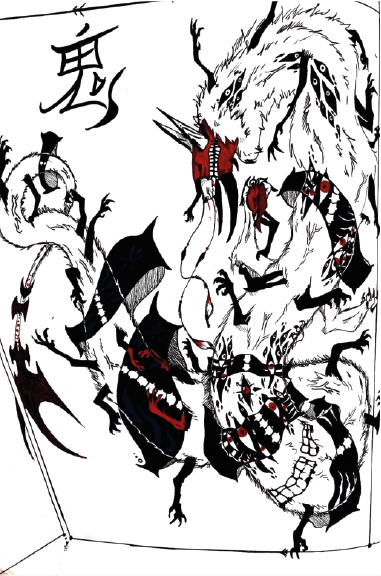
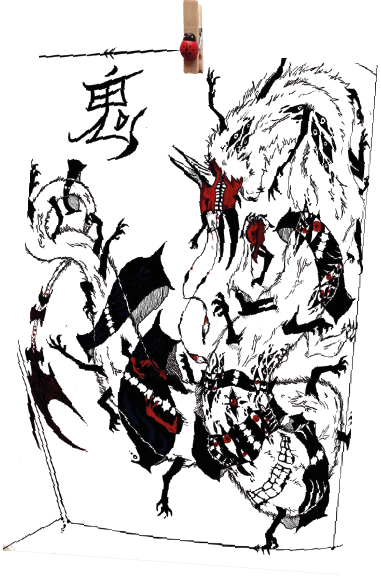
ajout

diff --git a/arts.html b/arts.html
@@ -25,53 +25,24 @@
       <div class="tram"></div>
     </div>
 
-    <div class="flipbook">
-      <div>
-        <img src="public/arts/__dessin1.png" alt="Image 1" />
+    <div class="canicooking">
+      <img class="corde" src="public/arts/__corde.png"/>
+      <div class="group">
+      <div class="sixseven"><img class="Image" src="public/arts/__dessin1.png" alt="Dessin 1"/></div>
+      <div class="sixseven"><img class="Image" src="public/arts/__dessin2.png" alt="Dessin 2"/></div>
+      <div class="sixseven"><img class="Image" src="public/arts/__dessin3.png" alt="Dessin 3"/></div>
+      <div class="sixseven"><img class="Image" src="public/arts/__dessin4.png" alt="Dessin 4"/></div>
+      <div class="sixseven"><img class="Image" src="public/arts/__dessin5.png" alt="Dessin 5"/></div>
+      <div class="sixseven"><img class="Image" src="public/arts/__dessin6.png" alt="Dessin 6"/></div>
+      <div class="sixseven"><img class="Image" src="public/arts/__dessin7.png" alt="Dessin 7"/></div>
+      <div class="sixseven"><img class="Image" src="public/arts/__dessin8.png" alt="Dessin 8"/></div>
+      <div class="sixseven"><img class="Image" src="public/arts/__dessin9.png" alt="Dessin 9"/></div>
       </div>
-
-      <div>
-        <img src="public/arts/__dessin2.png" alt="Image 1" />
-      </div>
-
-      <div>
-        <img src="public/arts/__dessin3.png" alt="Image 1" />
-      </div>
-
-      <div>
-        <img src="public/arts/__dessin4.png" alt="Image 1" />
-      </div>
-      <div>
-        <img src="public/arts/__dessin5.png" alt="Image 1" />
-      </div>
-
-      <div>
-        <img src="public/arts/__dessin5.png" alt="Image 1" />
-      </div>
-
-      <div>
-        <img src="public/arts/__dessin6.png" alt="Image 1" />
-      </div>
-
-      <div>
-        <img src="public/arts/__dessin7.png" alt="Image 1" />
-      </div>
-
-      <div>
-        <img src="public/arts/__dessin8.png" alt="Image 1" />
-      </div>
-
-      <div>
-        <img src="public/arts/__dessin9.png" alt="Image 1" />
-      </div>
-
-
-    <script src="arts.js"></script>
-
-    <div class="transport-container">
-      <div class="tgv"></div>
-      <div class="tram"></div>
     </div>
+
+
+      
+    <script src="arts.js"></script>
 
     <style>
       * {
@@ -91,7 +62,6 @@
           auto;
       }
 
-      
       .transport-container {
         position: relative;
         margin-top: 100px;
@@ -138,6 +108,83 @@
           left: 100%;
         }
       }
+
+       .corde {
+        width: 100px;
+        height: 100px;
+        background-size: cover;
+      }
+
+ .canicooking {
+    padding: 20px 0;
+    max-width: 100%;
+    overflow: hidden;
+    display: flex;
+    margin-top: 20px;
+  }
+
+  .sixseven:hover {
+  transform: translateY(-3px);
+  transition: all ease-in-out 0.3s;
+  transform: scale(1.20);
+  }
+
+  .sixseven {
+    width:100%;
+    color: white;
+    border-radius: 24px;
+    padding: 20px;
+    font-size: xx-large;
+    justify-content: center;
+    align-items: center;
+    min-height: 100px;
+
+    .Image {
+      max-width: 200px;
+    }
+  }
+
+    .canicooking {
+    > * {
+      flex: 0 0 100%;
+    }
+  }
+
+  .group {
+    display: flex;
+    gap: 20px;
+    padding-right: 20px;
+    height: 330px;
+  }
+
+  .group {
+    will-change: transform; 
+    animation: droite 60s linear infinite;
+  }
+
+  @keyframes droite {
+    0% {
+      transform: translateX(-100%);
+    }
+    100% {
+      transform: translateX(0);
+
+    } 
+  }
+
+    .canicooking {
+    /* ... */
+    &:hover .group {
+      animation-play-state: paused;
+    }
+
+  }
+
+  
+
+
+
+
     </style>
   </body>
 </html>

diff --git a/about.html b/about.html
@@ -43,6 +43,8 @@
       </div>
     </div>
 
+    <!-- stp marche gsap -->
+
     <script src="https://cdn.jsdelivr.net/npm/gsap@3.13.0/dist/gsap.min.js"></script>
     <script src="https://cdn.jsdelivr.net/npm/gsap@3.13.0/dist/Draggable.min.js"></script>
     <script src="https://cdn.jsdelivr.net/npm/gsap@3.13.0/dist/InertiaPlugin.min.js"></script>
